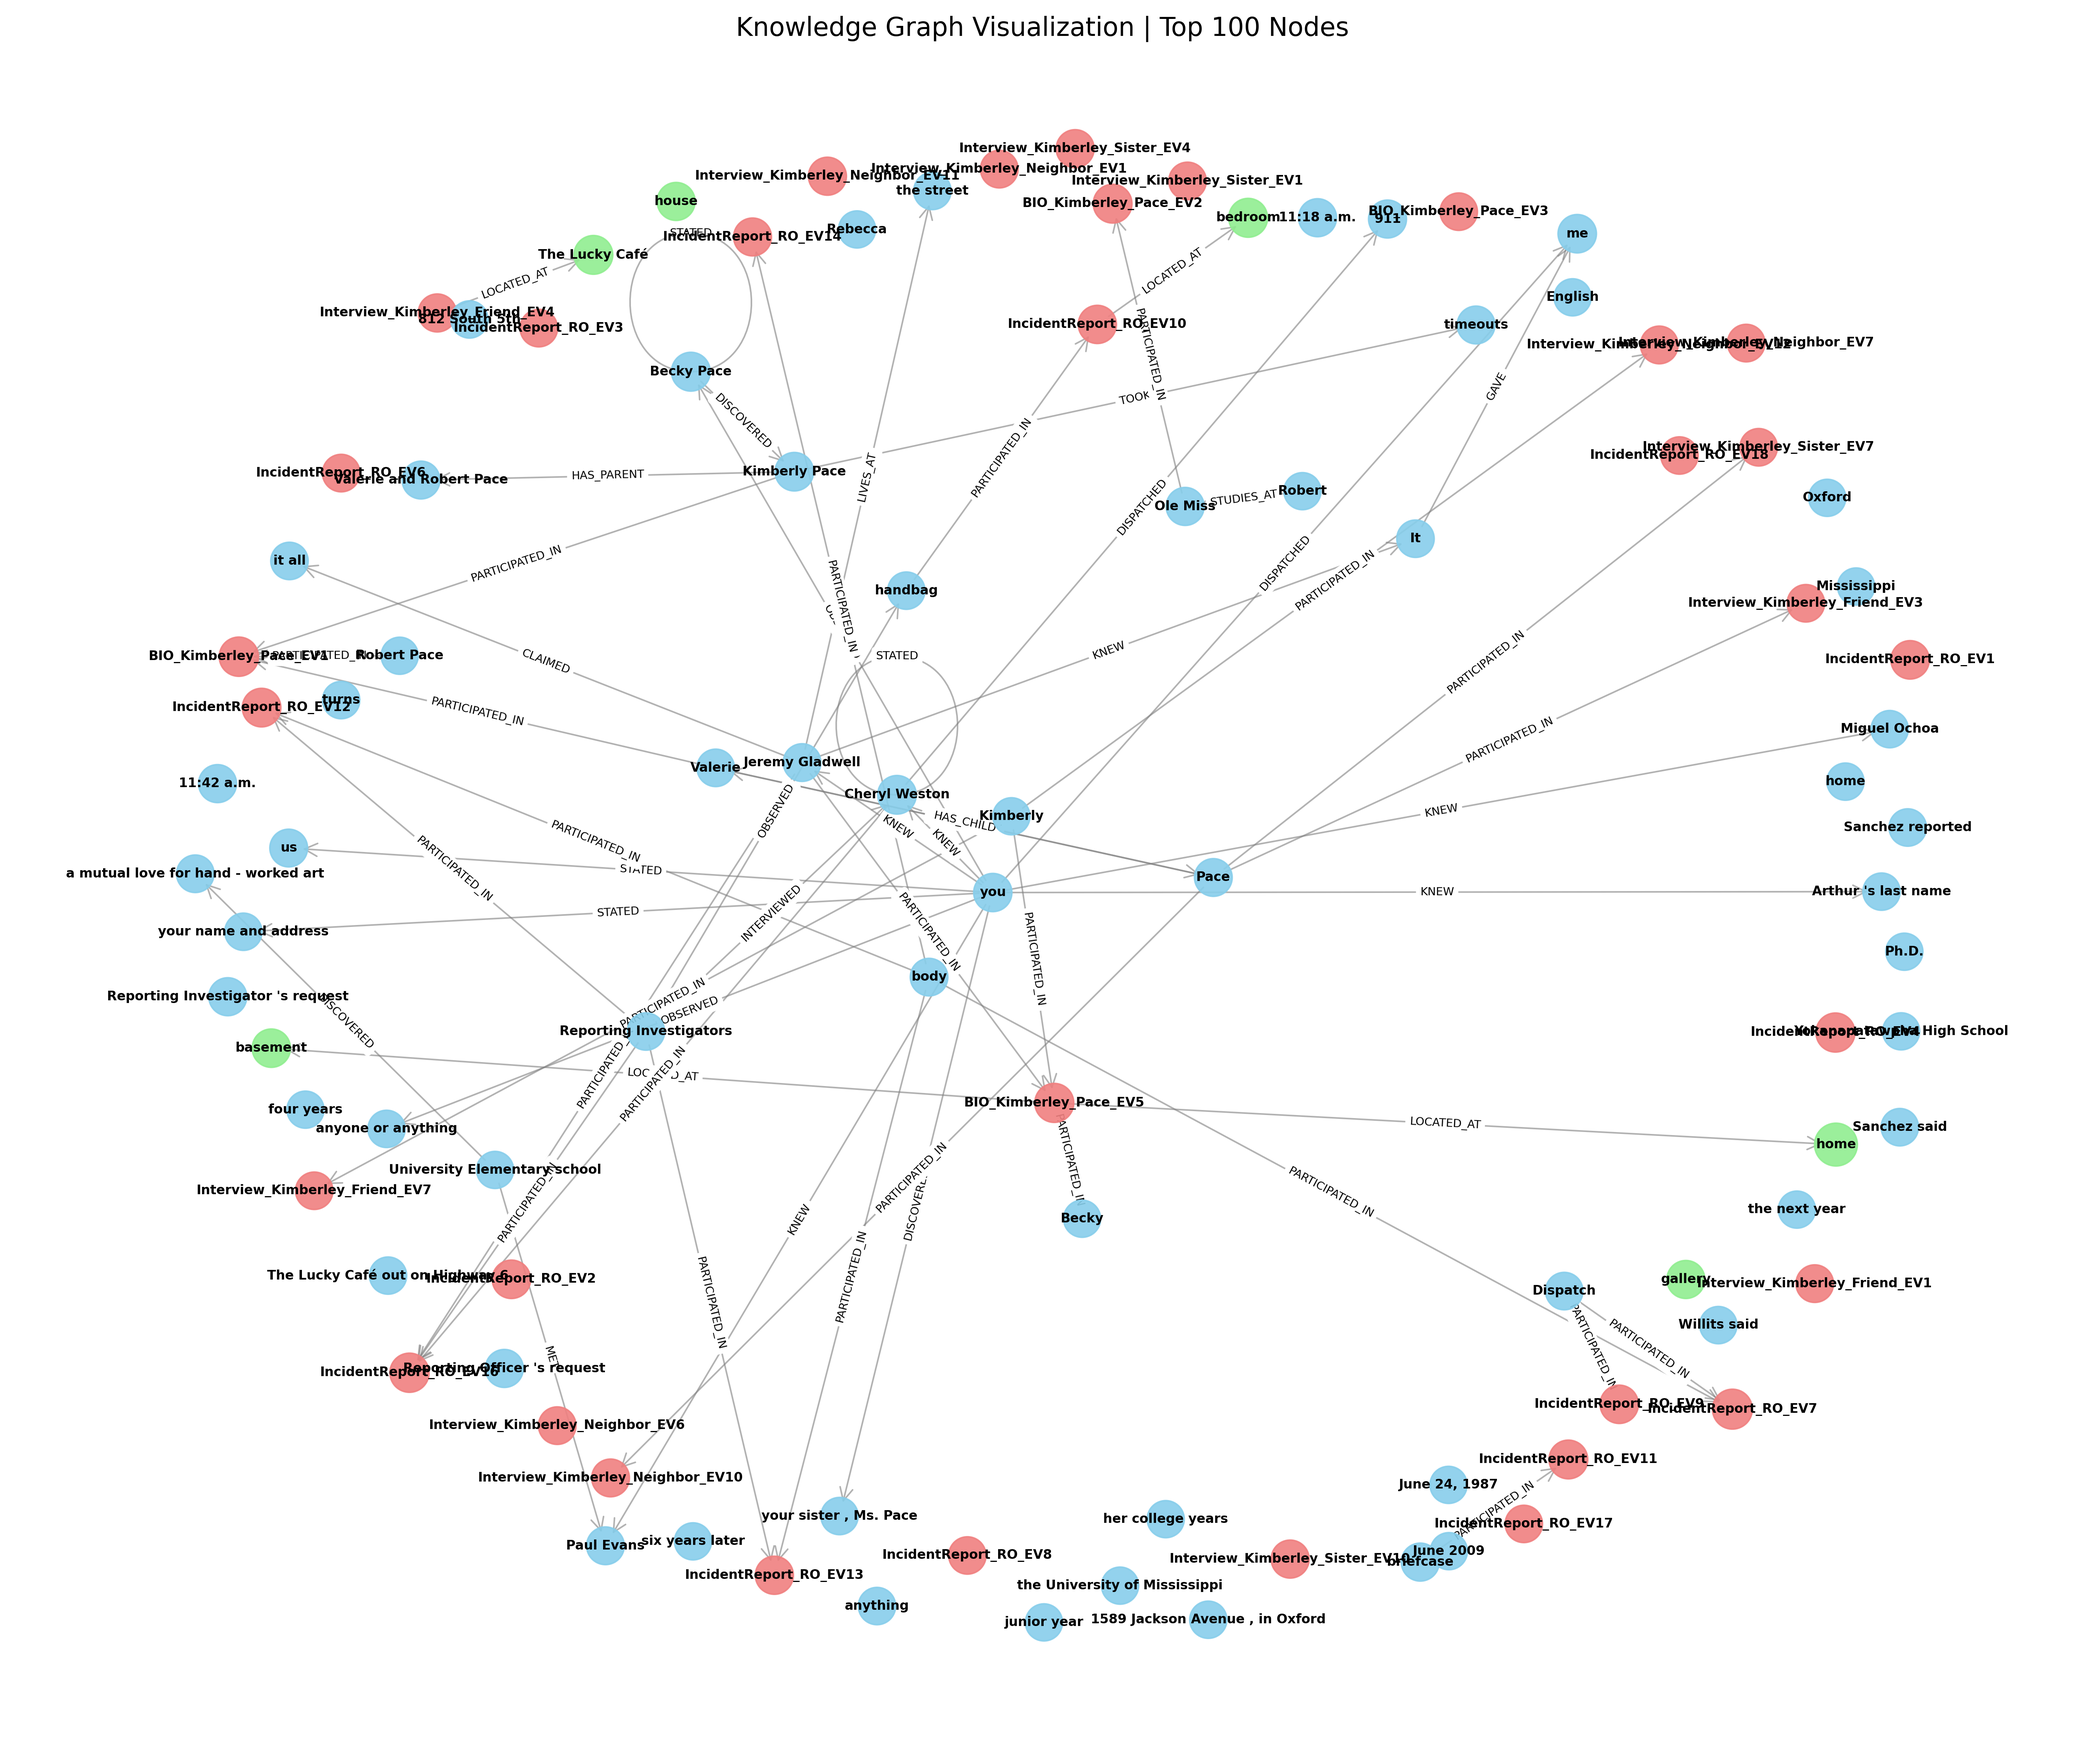
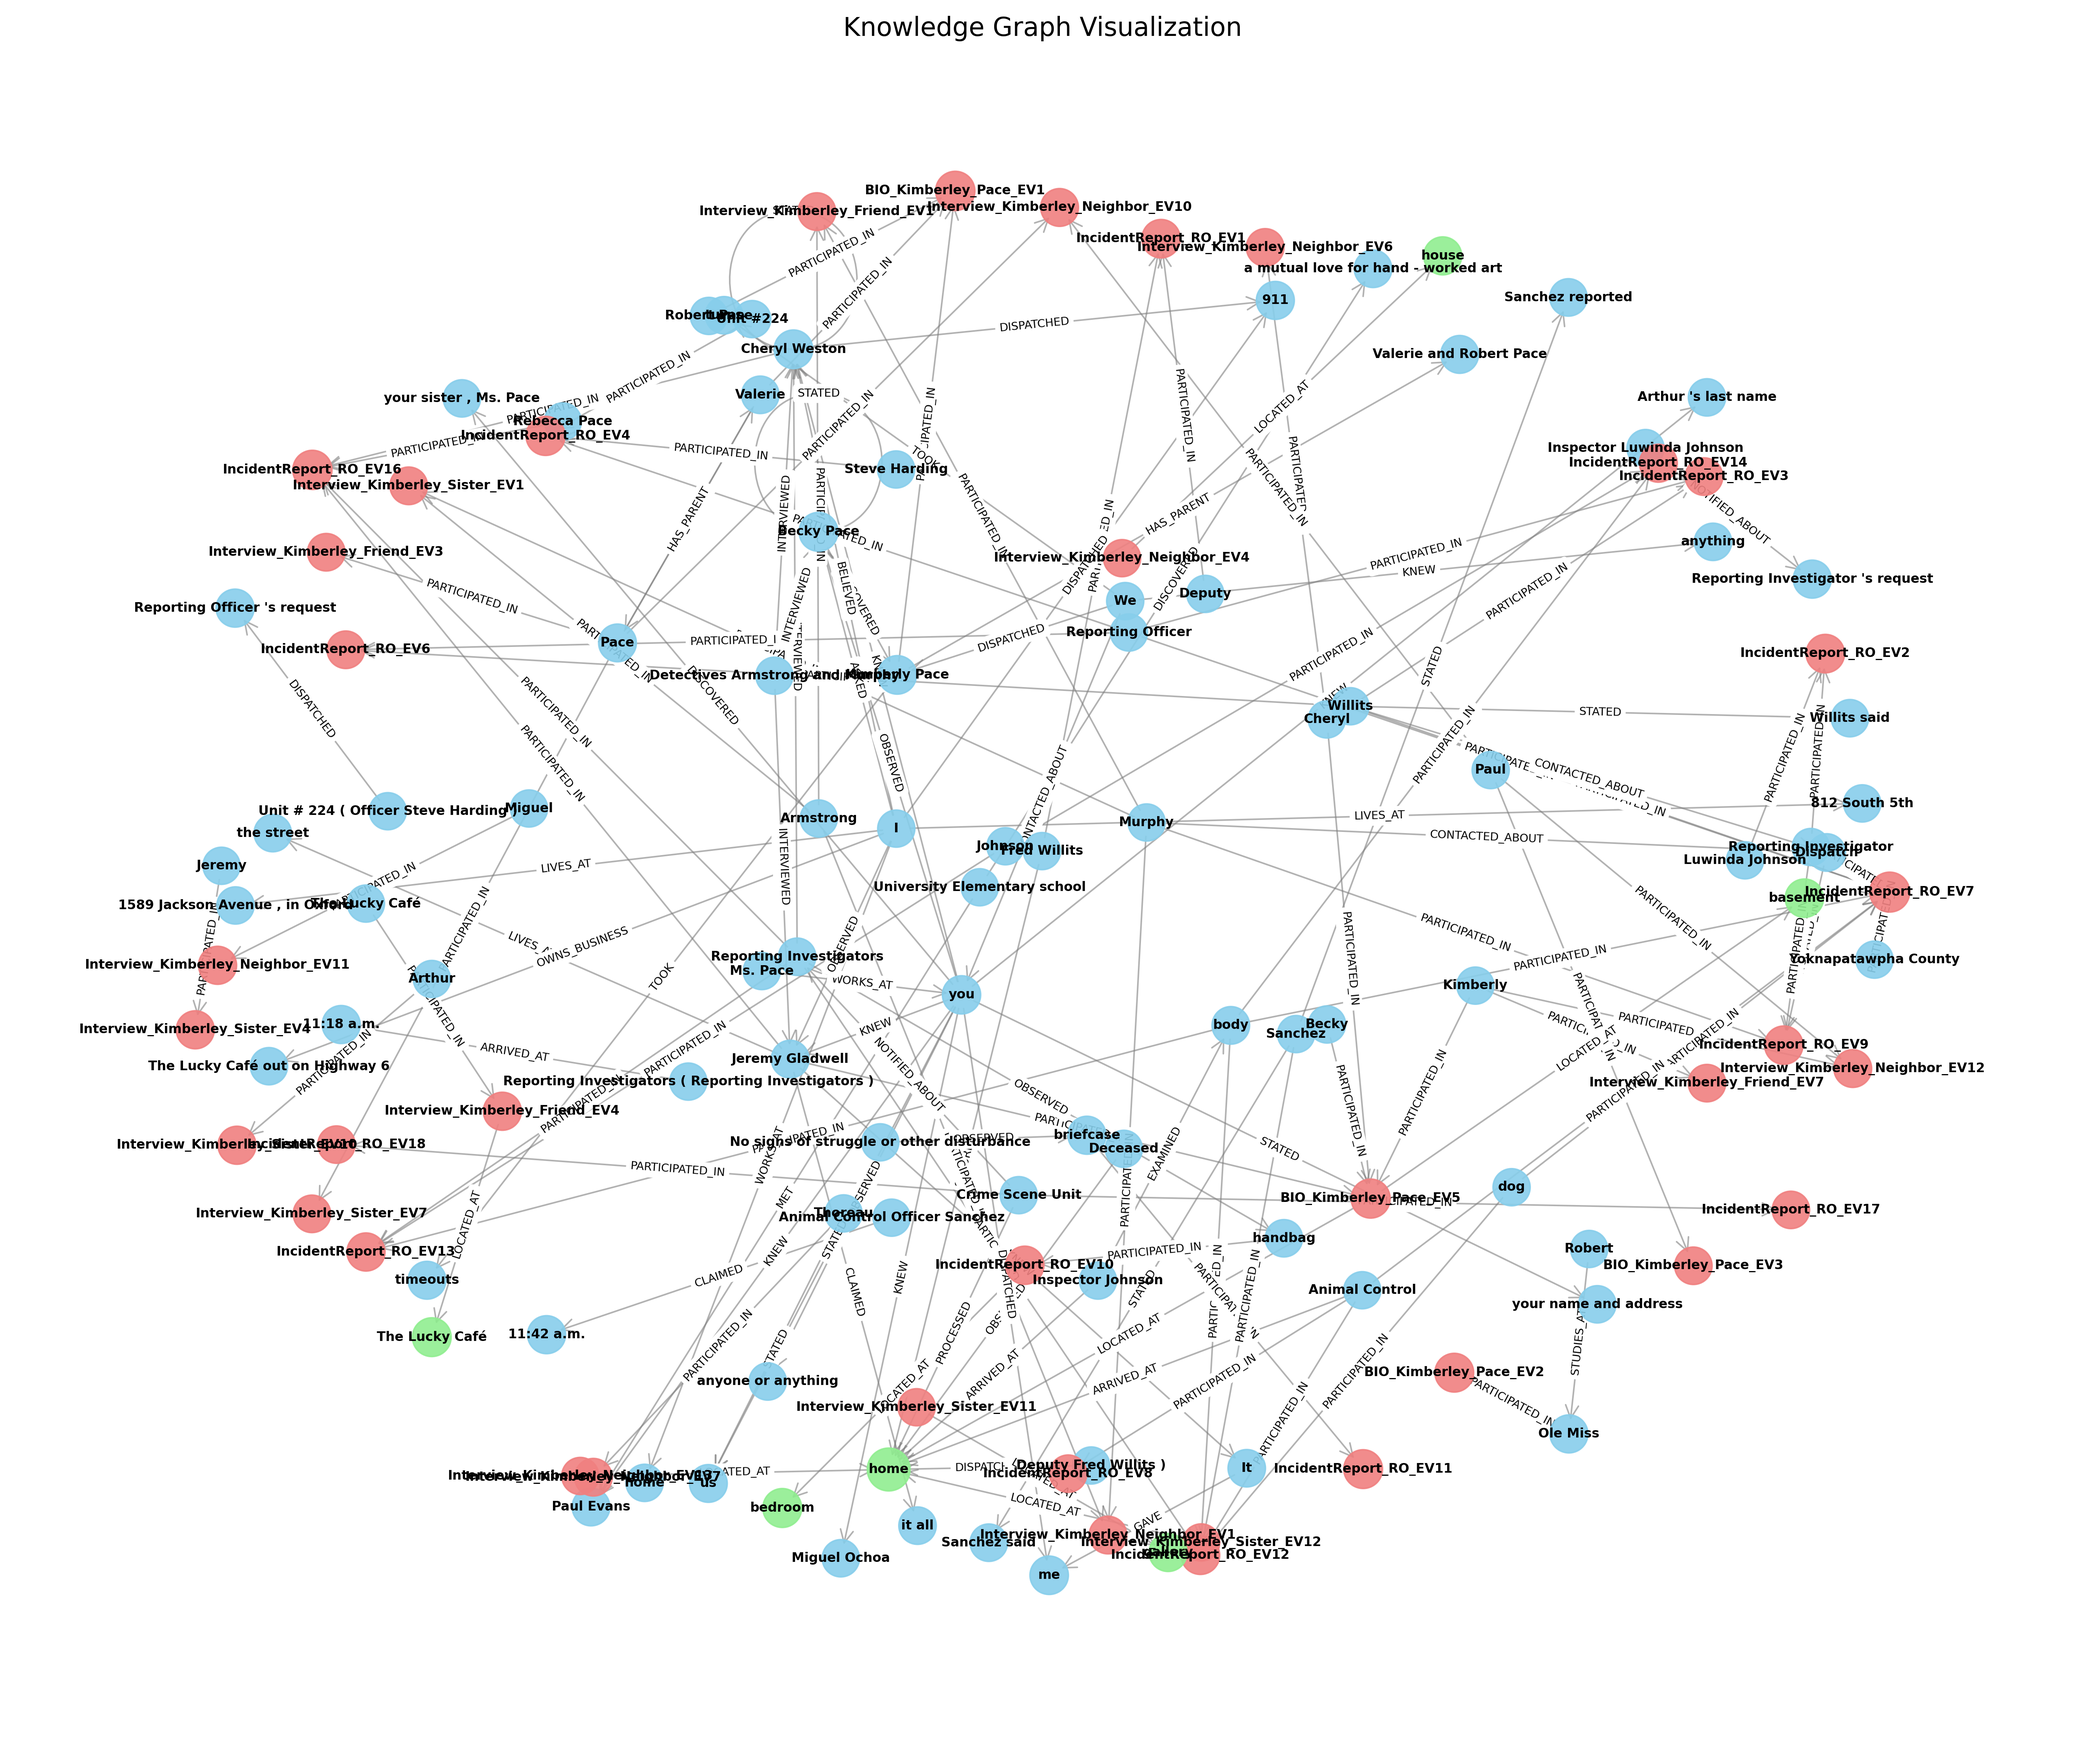
Update Readme.md

diff --git a/FKGIS/generate_incident_graph.py b/FKGIS/generate_incident_graph.py
@@ -1,0 +1,120 @@
+#!/usr/bin/env python3
+"""
+Simple script to generate graph visualization for the Incident Report narrative.
+
+This script processes only the IncidentReport_RO.txt file and creates a knowledge graph
+visualization showing entities, events, and their relationships.
+"""
+
+import json
+import os
+from pathlib import Path
+import subprocess
+import sys
+
+def run_incident_report_pipeline():
+    """Run the pipeline for just the Incident Report and generate visualization."""
+
+    print("🚀 Processing Incident Report narrative...")
+
+    # Define paths
+    base_dir = Path(__file__).parent
+    nlp_dir = base_dir / "nlp_pipeline"
+    output_dir = nlp_dir / "output"
+    incident_file = nlp_dir / "case_docs" / "IncidentReport_RO.txt"
+
+    if not incident_file.exists():
+        print(f"❌ Incident report file not found: {incident_file}")
+        return False
+
+    # Step 1: Run preprocessing
+    print("📝 Step 1: Preprocessing...")
+    preprocess_cmd = [
+        sys.executable, "-m", "nlp_pipeline.pipeline",
+        "--input", str(incident_file),
+        "--case", "INCIDENT_REPORT",
+        "--step", "full",
+        "--output-dir", str(output_dir)
+    ]
+
+    result = subprocess.run(preprocess_cmd, cwd=str(base_dir), capture_output=True, text=True)
+    if result.returncode != 0:
+        print(f"❌ Preprocessing failed: {result.stderr}")
+        return False
+
+    print("✅ Preprocessing completed")
+
+    # Step 2: Generate visualization
+    print("🎨 Step 2: Generating graph visualization...")
+
+    # Use the refined files if they exist, otherwise use the original
+    nodes_file = output_dir / "graph_nodes_refined.json"
+    edges_file = output_dir / "graph_edges_refined.json"
+
+    if not nodes_file.exists() or not edges_file.exists():
+        # Try original files
+        nodes_file = output_dir / "graph_nodes.json"
+        edges_file = output_dir / "graph_edges.json"
+
+    if not nodes_file.exists() or not edges_file.exists():
+        print("❌ Graph files not found. Please run the full case pipeline first.")
+        return False
+
+    # Generate visualization
+    viz_cmd = [
+        sys.executable, str(nlp_dir / "visualizer.py"),
+        "--nodes", str(nodes_file),
+        "--edges", str(edges_file),
+        "--output", str(output_dir / "incident_report_graph.png")
+    ]
+
+    result = subprocess.run(viz_cmd, cwd=str(base_dir), capture_output=True, text=True)
+    if result.returncode != 0:
+        print(f"❌ Visualization failed: {result.stderr}")
+        return False
+
+    print("✅ Graph visualization generated successfully!")
+    print(f"📁 Output saved to: {output_dir / 'incident_report_graph.png'}")
+
+    # Show some basic stats
+    try:
+        with open(nodes_file, 'r') as f:
+            nodes = json.load(f)
+        with open(edges_file, 'r') as f:
+            edges = json.load(f)
+
+        print("\n📊 Graph Statistics:")
+        print(f"   • Nodes: {len(nodes)}")
+        print(f"   • Edges: {len(edges)}")
+
+        # Count node types
+        node_types = {}
+        for node in nodes:
+            node_type = node.get('type', 'Unknown')
+            node_types[node_type] = node_types.get(node_type, 0) + 1
+
+        print("   • Node types:")
+        for node_type, count in node_types.items():
+            print(f"     - {node_type}: {count}")
+
+    except Exception as e:
+        print(f"⚠  Could not read graph statistics: {e}")
+
+    return True
+
+def main():
+    """Main function."""
+    print("🔍 Incident Report Graph Generator")
+    print("=" * 40)
+
+    success = run_incident_report_pipeline()
+
+    if success:
+        print("\n🎉 Success! Open the PNG file to view the knowledge graph.")
+        print("💡 Tip: Use --entity-view 'EntityName' to focus on specific entities")
+    else:
+        print("\n❌ Failed to generate graph. Check the error messages above.")
+        sys.exit(1)
+
+if __name__ == "__main__":
+    main()

diff --git a/FKGIS/INCIDENT_GRAPH_README.md b/FKGIS/INCIDENT_GRAPH_README.md
@@ -1,0 +1,67 @@
+# Incident Report Graph Generator
+
+A simple script to generate knowledge graph visualizations for the Incident Report narrative.
+
+## Quick Start
+
+```bash
+cd FKGIS
+python3 generate_incident_graph.py
+```
+
+This will:
+1. Process the Incident Report narrative through the NLP pipeline
+2. Generate a knowledge graph with entities, events, and relationships
+3. Create a PNG visualization at `nlp_pipeline/output/incident_report_graph.png`
+
+## What It Does
+
+- **Processes**: Only the `IncidentReport_RO.txt` file
+- **Extracts**: Entities, events, locations, and their relationships
+- **Filters**: Automatically removes isolated nodes (nodes with no connections)
+- **Visualizes**: Clean knowledge graph with PageRank-based node sizing
+- **Colors**: Entity (blue), Event (red), Location (green)
+
+## Graph Statistics (Latest Run)
+- **Original Nodes**: 270 total
+- **Filtered Nodes**: 126 connected nodes (144 isolated nodes removed)
+- **Edges**: 143 relationships
+- **Node Types**: Entities, Events, Locations (with connections only)
+- **Top Entities**: Reporting officers, victims, evidence items
+
+## Advanced Usage
+
+### Focus on Specific Entities
+```bash
+# View relationships for a specific entity
+python3 nlp_pipeline/visualizer.py --entity-view "Cheryl Weston"
+
+# View only significant nodes
+python3 nlp_pipeline/visualizer.py --significant-only
+
+# View top 20 PageRank nodes
+python3 nlp_pipeline/visualizer.py --top-nodes 20
+```
+
+### Filter by Node Types
+```bash
+# Show only entities
+python3 nlp_pipeline/visualizer.py --node-types Entity
+
+# Show entities and events
+python3 nlp_pipeline/visualizer.py --node-types Entity,Event
+```
+
+## Output Files
+
+- `incident_report_graph.png` - Main visualization
+- `IncidentReport_RO_enriched.json` - Processed document data
+- `INCIDENT_REPORT_global_entities.json` - Extracted entities
+
+## Requirements
+
+- Python 3.7+
+- NLP pipeline dependencies (spaCy, networkx, matplotlib)
+- Incident Report text file in `nlp_pipeline/case_docs/`
+
+The script handles all dependencies automatically and provides clear error messages if anything goes wrong.
